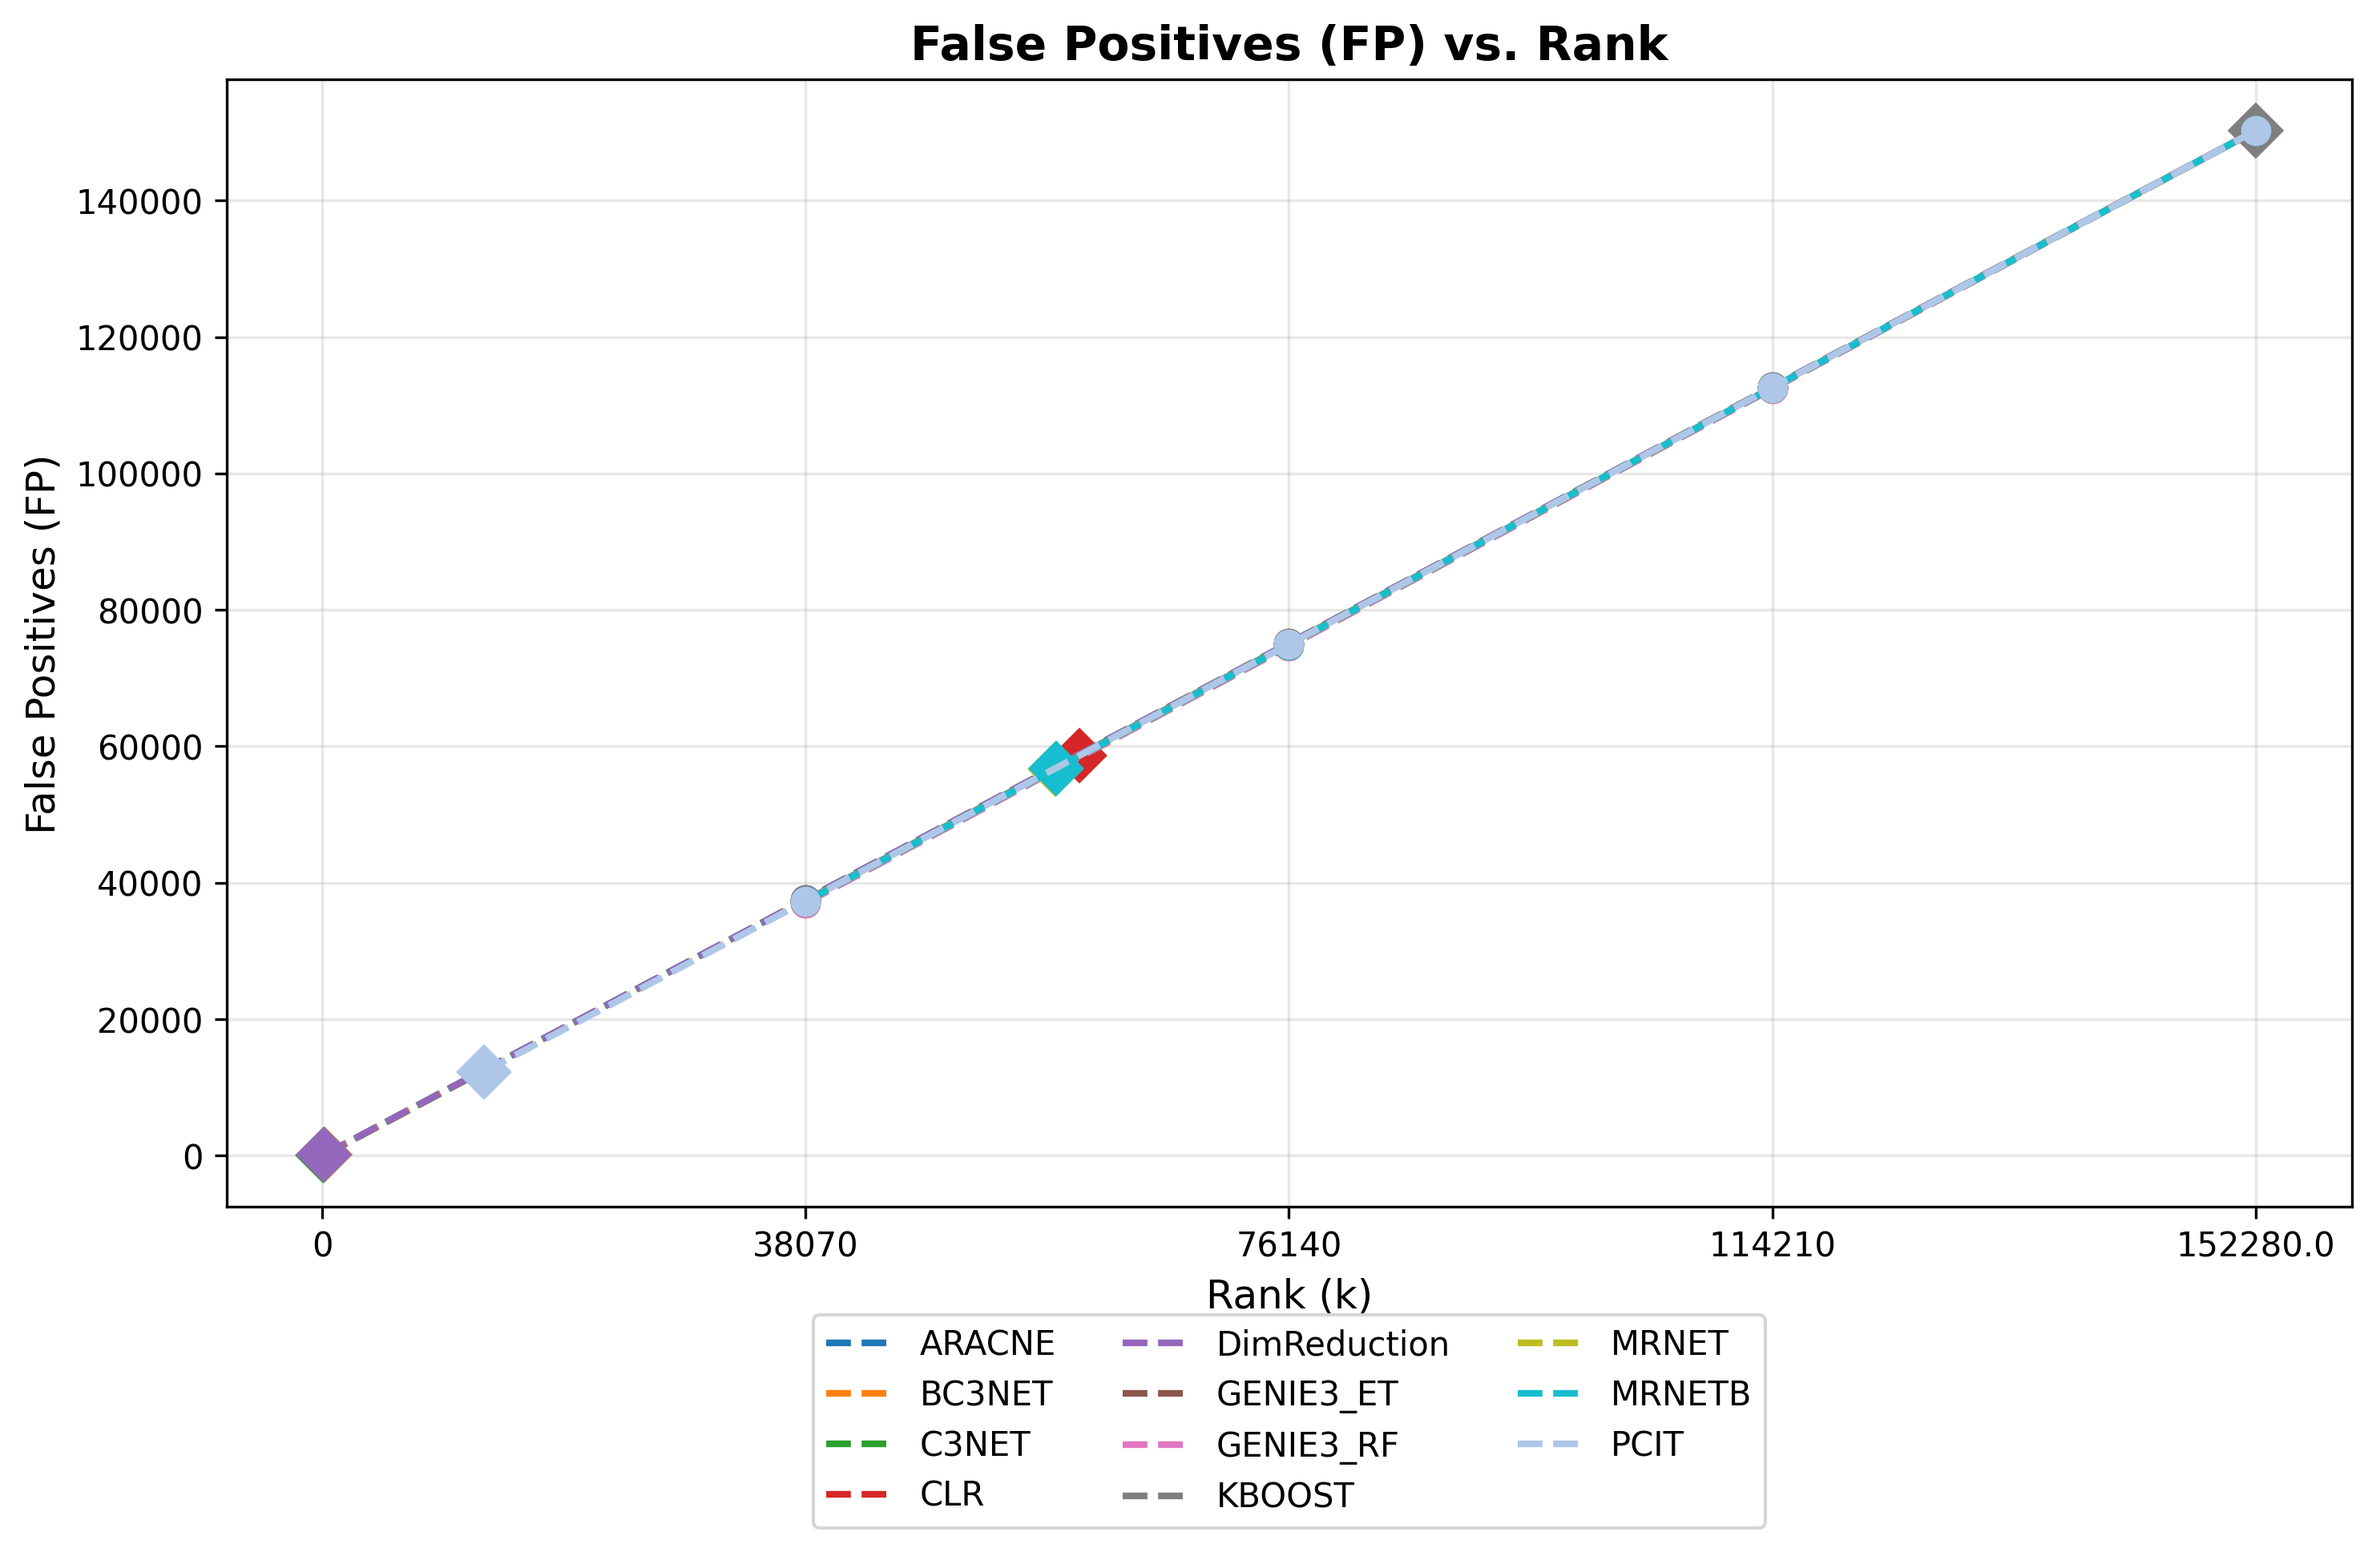
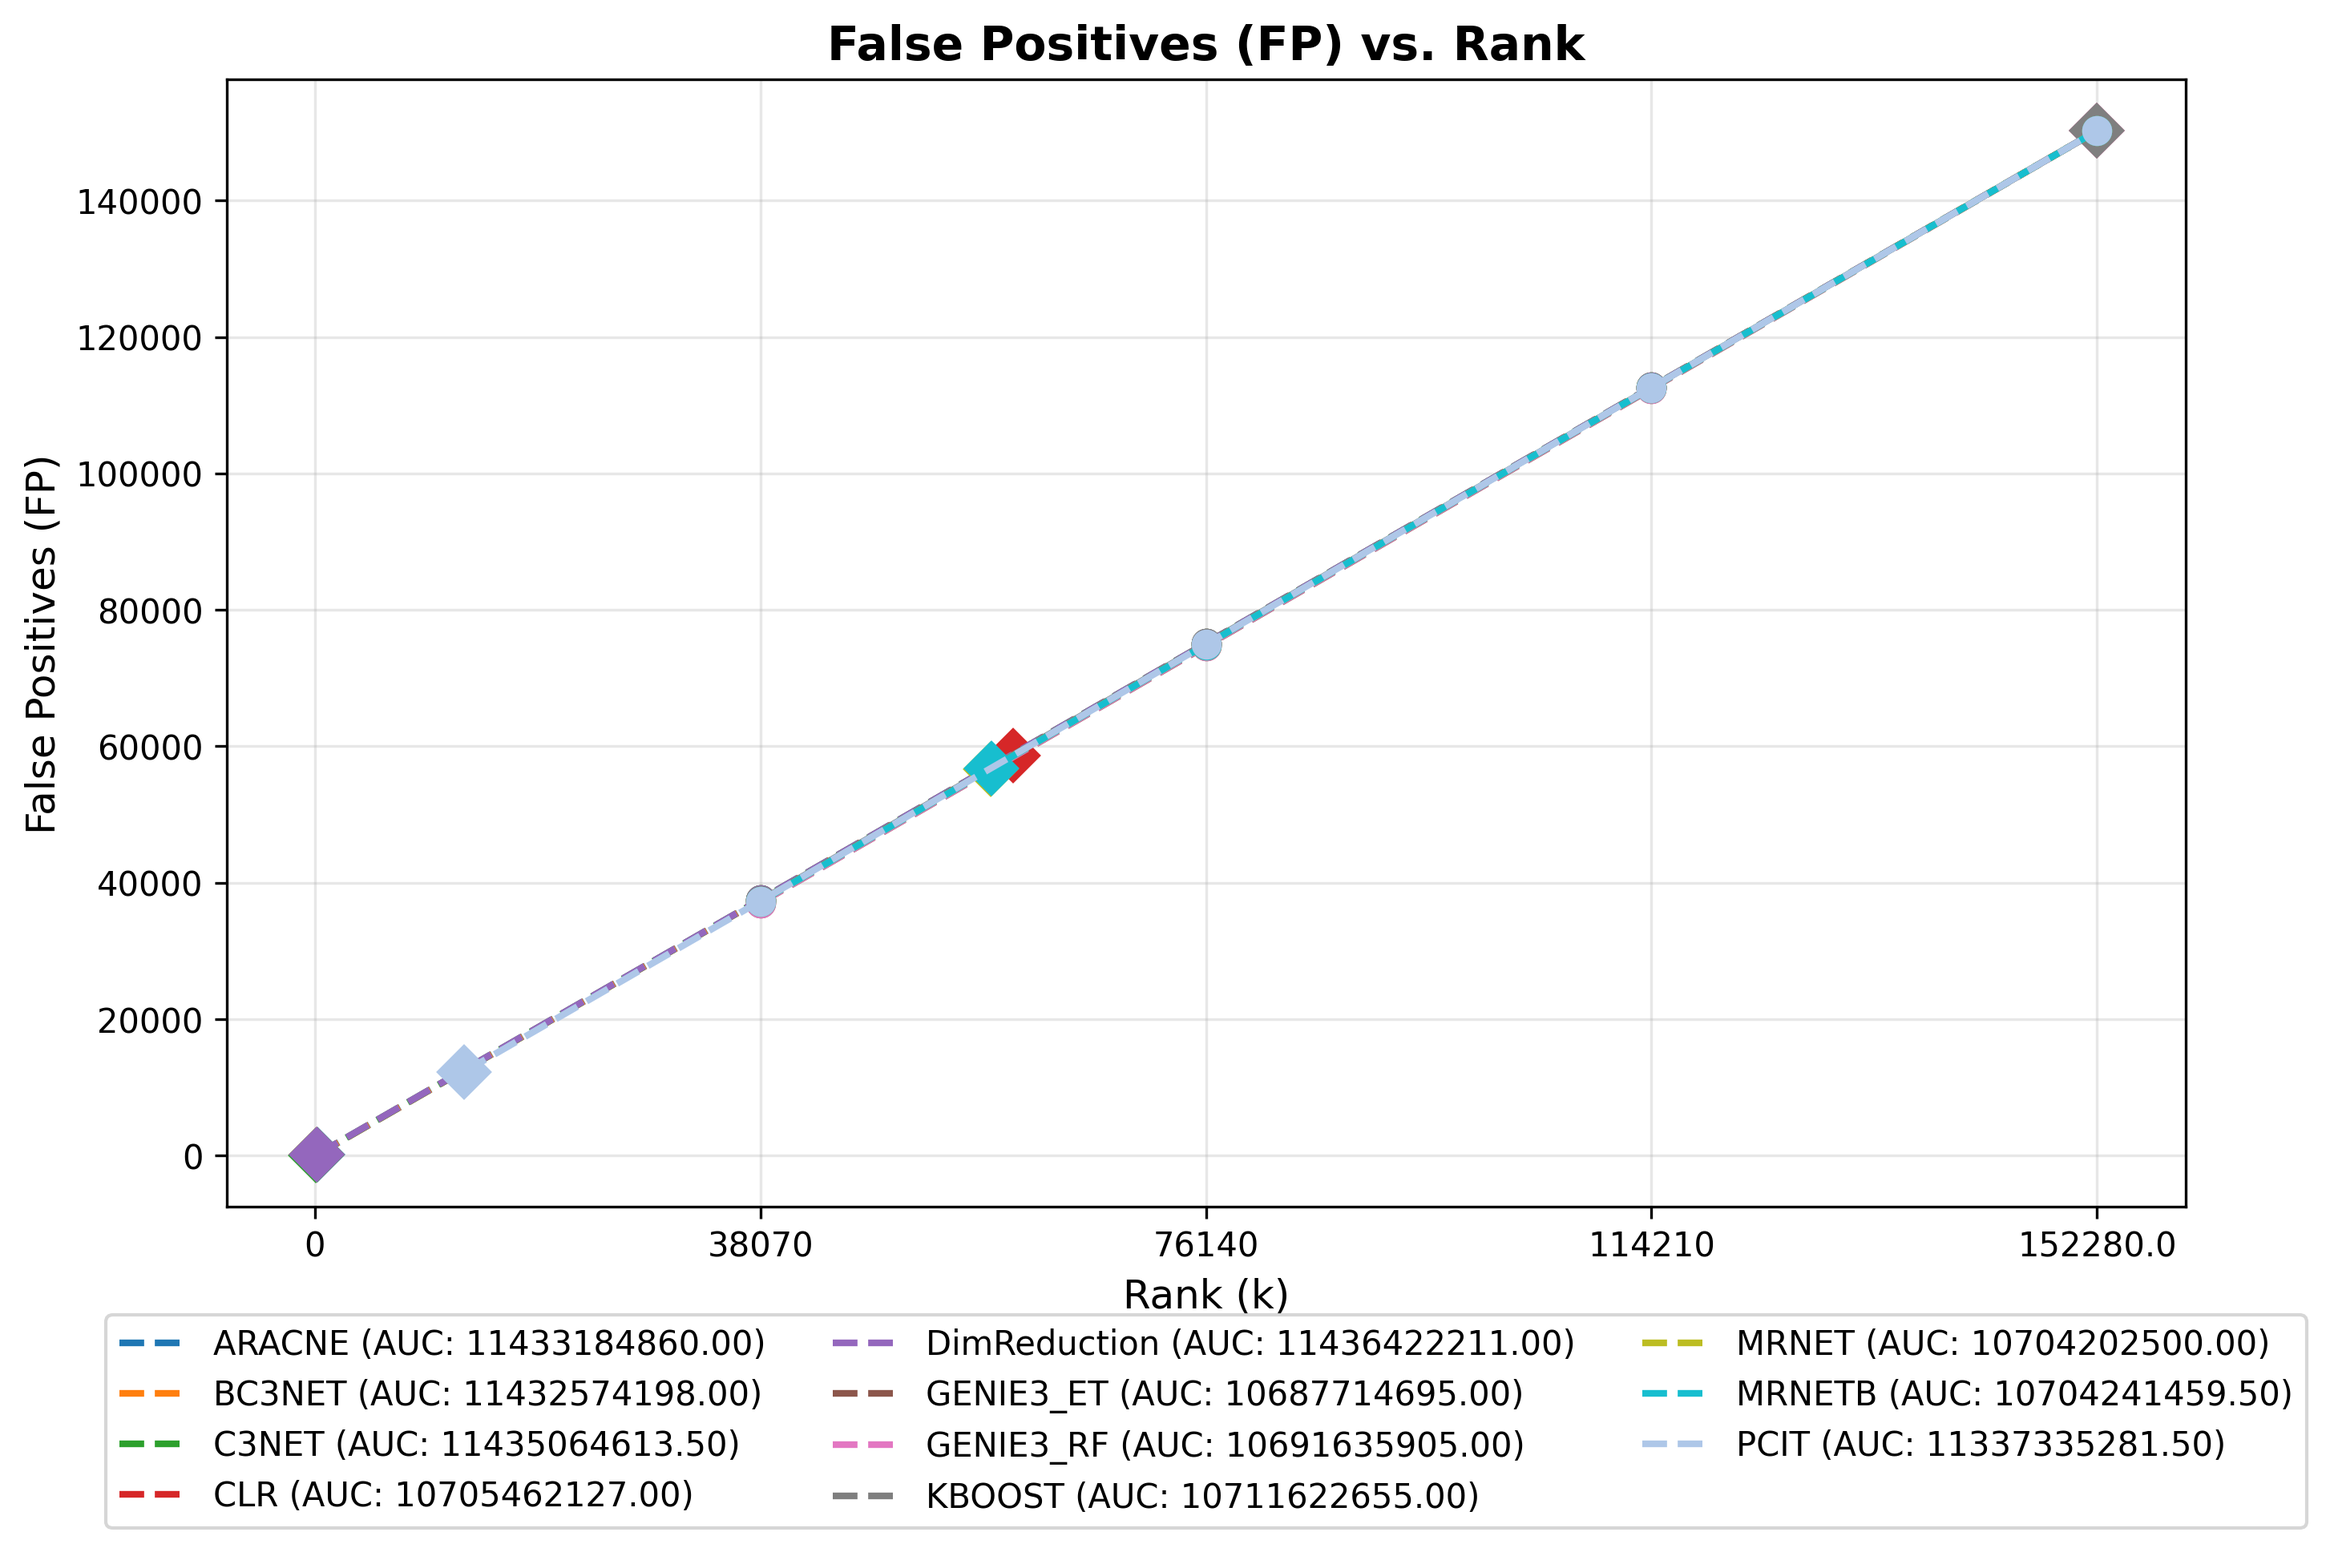
add AUC

diff --git a/scripts/evaluation_analyzer_2.py b/scripts/evaluation_analyzer_2.py
@@ -647,10 +647,20 @@ class EvaluationAnalyzer:
                     TP = round(tpr * P)
                     tps.append(TP)
 
+                # Calculate AUC for TP vs Rank
+                valid_indices = ~np.isnan(tps)
+                if np.sum(valid_indices) > 1:
+                    valid_ranks = [ranks_to_plot[i] for i in range(len(ranks_to_plot)) if valid_indices[i]]
+                    valid_tps = [tps[i] for i in range(len(tps)) if valid_indices[i]]
+                    auc = np.trapezoid(valid_tps, valid_ranks)
+                else:
+                    auc = 0
+
                 color = self.color_palette[i % len(self.color_palette)]
                 
-                # Plot the line
-                line = ax.plot(ranks_to_plot, tps, marker='', linestyle='-', color=color, label=f'{technique}', linewidth=2)
+                # Plot the line with AUC in label
+                line = ax.plot(ranks_to_plot, tps, marker='', linestyle='-', color=color, 
+                            label=f'{technique} (AUC: {auc:.2f})', linewidth=2)
                 
                 # Plot markers for all points
                 for j, (rank, tp) in enumerate(zip(ranks_to_plot, tps)):
@@ -737,10 +747,20 @@ class EvaluationAnalyzer:
                     FP = round(fpr * N)
                     fps.append(FP)
 
+                # Calculate AUC for FP vs Rank
+                valid_indices = ~np.isnan(fps)
+                if np.sum(valid_indices) > 1:
+                    valid_ranks = [ranks_to_plot[i] for i in range(len(ranks_to_plot)) if valid_indices[i]]
+                    valid_fps = [fps[i] for i in range(len(fps)) if valid_indices[i]]
+                    auc = np.trapezoid(valid_fps, valid_ranks)
+                else:
+                    auc = 0
+
                 color = self.color_palette[i % len(self.color_palette)]
                 
-                # Plot the line
-                line = ax.plot(ranks_to_plot, fps, marker='', linestyle='--', color=color, label=f'{technique}', linewidth=2)
+                # Plot the line with AUC in label
+                line = ax.plot(ranks_to_plot, fps, marker='', linestyle='--', color=color, 
+                            label=f'{technique} (AUC: {auc:.2f})', linewidth=2)
                 
                 # Plot markers for all points
                 for j, (rank, fp) in enumerate(zip(ranks_to_plot, fps)):
@@ -1726,11 +1746,14 @@ class EvaluationAnalyzer:
                         tps.append(TP)
                         actual_confidences.append(f"{best_row['min_weight']:.4f}")
 
+                # Calculate AUC for TP vs Confidence
+                auc = np.trapezoid(tps, confidence_thresholds)
+
                 color = self.color_palette[i % len(self.color_palette)]
                 
-                # Plot the line on main figure
+                # Plot the line on main figure with AUC in label
                 line = ax_main.plot(confidence_thresholds, tps, marker='o', linestyle='-', 
-                                color=color, label=f'{technique}', linewidth=2)
+                                color=color, label=f'{technique} (AUC: {auc:.2f})', linewidth=2)
                 
                 # Store data for zoomed view
                 all_tp_data[technique] = tps
@@ -1780,11 +1803,14 @@ class EvaluationAnalyzer:
             else:
                 zoom_max = 10  # Default fallback
             
-            # Plot each technique on zoomed view
+            # Plot each technique on zoomed view with AUC
             for i, (technique, tps) in enumerate(tp_data.items()):
+                # Calculate AUC for this technique
+                auc = np.trapezoid(tps, confidence_thresholds)
+                
                 color = self.color_palette[i % len(self.color_palette)]
                 ax_zoom.plot(confidence_thresholds, tps, marker='o', linestyle='-', 
-                            color=color, label=f'{technique}', linewidth=2)
+                            color=color, label=f'{technique} (AUC: {auc:.2f})', linewidth=2)
 
             ax_zoom.set_xlabel('Confidence Threshold', fontsize=12)
             ax_zoom.set_ylabel('True Positives (TP)', fontsize=12)
@@ -1857,15 +1883,18 @@ class EvaluationAnalyzer:
                         # Take the row with the highest rank (largest coverage) that meets the threshold
                         best_row = valid_rows.iloc[-1]
                         fpr = best_row['fpr']
-                        FP = fpr * N
+                        FP = round(fpr * N)
                         fps.append(FP)
                         actual_confidences.append(f"{best_row['min_weight']:.4f}")
 
+                # Calculate AUC for FP vs Confidence
+                auc = np.trapezoid(fps, confidence_thresholds)
+
                 color = self.color_palette[i % len(self.color_palette)]
                 
-                # Plot the line on main figure
+                # Plot the line on main figure with AUC in label
                 line = ax_main.plot(confidence_thresholds, fps, marker='o', linestyle='--', 
-                                color=color, label=f'{technique}', linewidth=2)
+                                color=color, label=f'{technique} (AUC: {auc:.2f})', linewidth=2)
                 
                 # Store data for zoomed view
                 all_fp_data[technique] = fps
@@ -1914,11 +1943,14 @@ class EvaluationAnalyzer:
             else:
                 zoom_max = 10  # Default fallback
             
-            # Plot each technique on zoomed view
+            # Plot each technique on zoomed view with AUC
             for i, (technique, fps) in enumerate(fp_data.items()):
+                # Calculate AUC for this technique
+                auc = np.trapezoid(fps, confidence_thresholds)
+                
                 color = self.color_palette[i % len(self.color_palette)]
                 ax_zoom.plot(confidence_thresholds, fps, marker='o', linestyle='--', 
-                            color=color, label=f'{technique}', linewidth=2)
+                            color=color, label=f'{technique} (AUC: {auc:.2f})', linewidth=2)
 
             ax_zoom.set_xlabel('Confidence Threshold', fontsize=12)
             ax_zoom.set_ylabel('False Positives (FP)', fontsize=12)
@@ -2080,11 +2112,14 @@ class EvaluationAnalyzer:
                         precisions.append(precision)
                         actual_confidences.append(f"{best_row['min_weight']:.4f}")
 
+                # Calculate AUC for Precision vs Confidence
+                auc = np.trapezoid(precisions, confidence_thresholds)
+
                 color = self.color_palette[i % len(self.color_palette)]
                 
-                # Plot the line
+                # Plot the line with AUC in label
                 line = ax.plot(confidence_thresholds, precisions, marker='s', linestyle='-', 
-                            color=color, label=f'{technique}', linewidth=2)
+                            color=color, label=f'{technique} (AUC: {auc:.3f})', linewidth=2)
 
             ax.set_xlabel('Confidence Threshold', fontsize=12)
             ax.set_ylabel('Precision', fontsize=12)
@@ -2152,14 +2187,20 @@ class EvaluationAnalyzer:
                         # Take the row with the highest rank (largest coverage) that meets the threshold
                         best_row = valid_rows.iloc[-1]
                         
-                        # Calculate precision and recall
-                        tpr = best_row['tpr']  # recall
-                        fpr = best_row['fpr']
-                        TP = round(tpr * P)
-                        FP = round(fpr * N)
+                        # Calculate precision from the curve data
+                        if 'precision' in best_row:
+                            precision = best_row['precision']
+                        else:
+                            # Calculate precision from TP and FP if not available
+                            tpr = best_row['tpr']
+                            fpr = best_row['fpr']
+                            TP = round(tpr * P)
+                            FP = round(fpr * N)
+                            precision = TP / (TP + FP) if (TP + FP) > 0 else 0
+                        
                         
                         precision = TP / (TP + FP) if (TP + FP) > 0 else 0
-                        recall = best_row['recall']  # TPR is recall
+                        recall = tpr  # TPR is recall
                         
                         # Calculate F1-score
                         if precision + recall > 0:
@@ -2170,11 +2211,14 @@ class EvaluationAnalyzer:
                         f1_scores.append(f1_score)
                         actual_confidences.append(f"{best_row['min_weight']:.4f}")
 
+                # Calculate AUC for F1-Score vs Confidence
+                auc = np.trapezoid(f1_scores, confidence_thresholds)
+
                 color = self.color_palette[i % len(self.color_palette)]
                 
-                # Plot the line
+                # Plot the line with AUC in label
                 line = ax.plot(confidence_thresholds, f1_scores, marker='^', linestyle='-', 
-                            color=color, label=f'{technique}', linewidth=2)
+                            color=color, label=f'{technique} (AUC: {auc:.3f})', linewidth=2)
 
             ax.set_xlabel('Confidence Threshold', fontsize=12)
             ax.set_ylabel('F1-Score', fontsize=12)
@@ -2183,7 +2227,7 @@ class EvaluationAnalyzer:
             ax.grid(True, alpha=0.3)
             ax.set_xticks(confidence_thresholds)
             ax.set_xticklabels([f'{w:.2f}' for w in confidence_thresholds])
-            ax.set_ylim(0, 0.2)  # F1-score ranges
+            ax.set_ylim(0, 0.2)  # F1-score ranges from 0 to 1
             
             plt.tight_layout()
 
@@ -2198,6 +2242,7 @@ class EvaluationAnalyzer:
 
         except Exception as e:
             print(f"Error creating F1-Score vs Confidence plot: {e}")
+
 
 
 def main():
